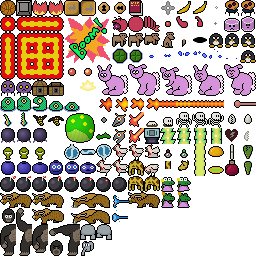
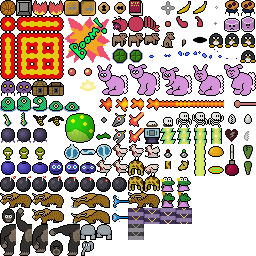
Conveyor belt

Changed region(s): [[0.5, 0.8125, 0.75, 0.9375]]

diff --git a/src/game/sprites/ps_sprite_conveyor.c b/src/game/sprites/ps_sprite_conveyor.c
@@ -1,0 +1,165 @@
+#include "ps.h"
+#include "game/ps_sprite.h"
+#include "game/ps_game.h"
+#include "util/ps_geometry.h"
+#include "akgl/akgl.h"
+
+#define PS_CONVEYOR_FRAME_DELAY   3
+#define PS_CONVEYOR_FRAME_COUNT   4
+#define PS_CONVEYOR_SPEED         0.67
+
+/* Private sprite object.
+ */
+
+struct ps_sprite_conveyor {
+  struct ps_sprite hdr;
+  int animtime;
+  int animframe;
+  int direction;
+  int enable;
+};
+
+#define SPR ((struct ps_sprite_conveyor*)spr)
+
+/* Delete.
+ */
+
+static void _ps_conveyor_del(struct ps_sprite *spr) {
+}
+
+/* Initialize.
+ */
+
+static int _ps_conveyor_init(struct ps_sprite *spr) {
+  SPR->direction=PS_DIRECTION_SOUTH;
+  SPR->enable=1;
+  return 0;
+}
+
+/* Configure.
+ */
+
+static int _ps_conveyor_configure(struct ps_sprite *spr,struct ps_game *game,const int *argv,int argc,const struct ps_sprdef *sprdef) {
+  if (argc>=1) {
+    spr->switchid=argv[0];
+    SPR->enable=0;
+    if (argc>=2) {
+      SPR->direction=argv[1];
+    }
+  }
+  return 0;
+}
+
+static const char *_ps_conveyor_get_configure_argument_name(int argp) {
+  switch (argp) {
+    case 0: return "switchid";
+    case 1: return "(1234=NSWE)";
+  }
+  return 0;
+}
+
+/* Move pumpkins standing on me.
+ */
+
+static int ps_conveyor_convey(struct ps_sprite *spr,struct ps_game *game) {
+  double left=spr->x-spr->radius;
+  double right=spr->x+spr->radius-0.2;
+  double top=spr->y-spr->radius;
+  double bottom=spr->y+spr->radius-0.2;
+  struct ps_sprgrp *grp=game->grpv+PS_SPRGRP_PHYSICS;
+  int i=grp->sprc; while (i-->0) {
+    struct ps_sprite *pumpkin=grp->sprv[i];
+    if (pumpkin->x<left) continue;
+    if (pumpkin->x>right) continue;
+    if (pumpkin->y<top) continue;
+    if (pumpkin->y>bottom) continue;
+    switch (SPR->direction) {
+      case PS_DIRECTION_NORTH: if ((pumpkin->y-=PS_CONVEYOR_SPEED)<top) pumpkin->y-=0.5; break;
+      case PS_DIRECTION_SOUTH: if ((pumpkin->y+=PS_CONVEYOR_SPEED)>bottom) pumpkin->y+=0.5; break;
+      case PS_DIRECTION_WEST: if ((pumpkin->x-=PS_CONVEYOR_SPEED)<left) pumpkin->x-=0.5; break;
+      case PS_DIRECTION_EAST: if ((pumpkin->x+=PS_CONVEYOR_SPEED)>right) pumpkin->x+=0.5; break;
+    }
+  }
+  return 0;
+}
+
+/* Update.
+ */
+
+static int _ps_conveyor_update(struct ps_sprite *spr,struct ps_game *game) {
+
+  if (SPR->enable) {
+    if (++(SPR->animtime)>=PS_CONVEYOR_FRAME_DELAY) {
+      SPR->animtime=0;
+      if (++(SPR->animframe)>=PS_CONVEYOR_FRAME_COUNT) {
+        SPR->animframe=0;
+      }
+    }
+    if (ps_conveyor_convey(spr,game)<0) return -1;
+  } else {
+    SPR->animtime=0;
+    SPR->animframe=0;
+  }
+
+  return 0;
+}
+
+/* Draw.
+ */
+
+static int _ps_conveyor_draw(struct akgl_vtx_maxtile *vtxv,int vtxa,struct ps_sprite *spr) {
+
+  vtxv->x=spr->x;
+  vtxv->y=spr->y;
+  vtxv->tileid=spr->tileid;
+  vtxv->size=PS_TILESIZE;
+  vtxv->ta=0;
+  vtxv->pr=vtxv->pg=vtxv->pb=0x80;
+  vtxv->a=0xff;
+  vtxv->t=0;
+
+  switch (SPR->direction) {
+    case PS_DIRECTION_NORTH: vtxv->xform=AKGL_XFORM_FLIP; break;
+    case PS_DIRECTION_SOUTH: vtxv->xform=AKGL_XFORM_NONE; break;
+    case PS_DIRECTION_WEST: vtxv->xform=AKGL_XFORM_90; break;
+    case PS_DIRECTION_EAST: vtxv->xform=AKGL_XFORM_270; break;
+  }
+
+  if (SPR->enable) {
+    vtxv->tileid+=SPR->animframe;
+  } else {
+    vtxv->tileid+=0x10;
+  }
+  
+  return 1;
+}
+
+/* Set switch.
+ */
+
+static int _ps_conveyor_set_switch(struct ps_game *game,struct ps_sprite *spr,int value) {
+  SPR->enable=value;
+  return 0;
+}
+
+/* Type definition.
+ */
+
+const struct ps_sprtype ps_sprtype_conveyor={
+  .name="conveyor",
+  .objlen=sizeof(struct ps_sprite_conveyor),
+
+  .radius=PS_TILESIZE>>1,
+  .shape=PS_SPRITE_SHAPE_CIRCLE,
+  .layer=100,
+
+  .init=_ps_conveyor_init,
+  .del=_ps_conveyor_del,
+  .configure=_ps_conveyor_configure,
+  .get_configure_argument_name=_ps_conveyor_get_configure_argument_name,
+  .update=_ps_conveyor_update,
+  .draw=_ps_conveyor_draw,
+  
+  .set_switch=_ps_conveyor_set_switch,
+
+};

diff --git a/src/main/ps_main.c b/src/main/ps_main.c
@@ -65,7 +65,7 @@ static int ps_setup_test_game(struct ps_userconfig *userconfig) {
 
   /* Optionally override plrdef selection. (plrid,plrdefid,palette,device) */
   //001-swordsman 002-archer    003-gadgeteer 004-nurse     005-wizard    006-vampire   007-martyr    008-immortal  009-bomber
-  if (ps_game_configure_player(ps_game,1,8,2,0)<0) return -1;
+  if (ps_game_configure_player(ps_game,1,3,2,0)<0) return -1;
   //if (ps_game_configure_player(ps_game,2,8,0,0)<0) return -1;
   //if (ps_game_configure_player(ps_game,3,8,1,0)<0) return -1;
   //if (ps_game_configure_player(ps_game,4,2,2,0)<0) return -1;
@@ -81,7 +81,7 @@ static int ps_setup_test_game(struct ps_userconfig *userconfig) {
     if (ps_game_generate_test(ps_game,
       -1, // regionid, negative means random
       // blueprintid. At least one must have adequate HERO POI:
-      2,61
+      2,1
     )<0) return -1;
   }
 

diff --git a/src/game/ps_sprtype.c b/src/game/ps_sprtype.c
@@ -52,6 +52,7 @@ const struct ps_sprtype *ps_sprtype_by_name(const char *name,int namec) {
   if ((namec==7)&&!memcmp(name,"lwizard",7)) return &ps_sprtype_lwizard;
   if ((namec==8)&&!memcmp(name,"elefence",8)) return &ps_sprtype_elefence;
   if ((namec==8)&&!memcmp(name,"elefence",8)) return &ps_sprtype_elefence;
+  if ((namec==8)&&!memcmp(name,"conveyor",8)) return &ps_sprtype_conveyor;
 //INSERT SPRTYPE NAME TEST HERE
 
   return 0;
@@ -104,5 +105,6 @@ const struct ps_sprtype *ps_all_sprtypes[]={
   &ps_sprtype_lwizard,
   &ps_sprtype_elefence,
   &ps_sprtype_elefence,
+  &ps_sprtype_conveyor,
 //INSERT SPRTYPE REFERENCE HERE
 0};

diff --git a/src/game/ps_sprite.h b/src/game/ps_sprite.h
@@ -194,6 +194,7 @@ extern const struct ps_sprtype ps_sprtype_boxingglove;
 extern const struct ps_sprtype ps_sprtype_lwizard;
 extern const struct ps_sprtype ps_sprtype_elefence;
 extern const struct ps_sprtype ps_sprtype_elefence;
+extern const struct ps_sprtype ps_sprtype_conveyor;
 //INSERT SPRTYPE DEFINITION HERE
 
 /* API for sprite types too trivial to warrant their own headers.
